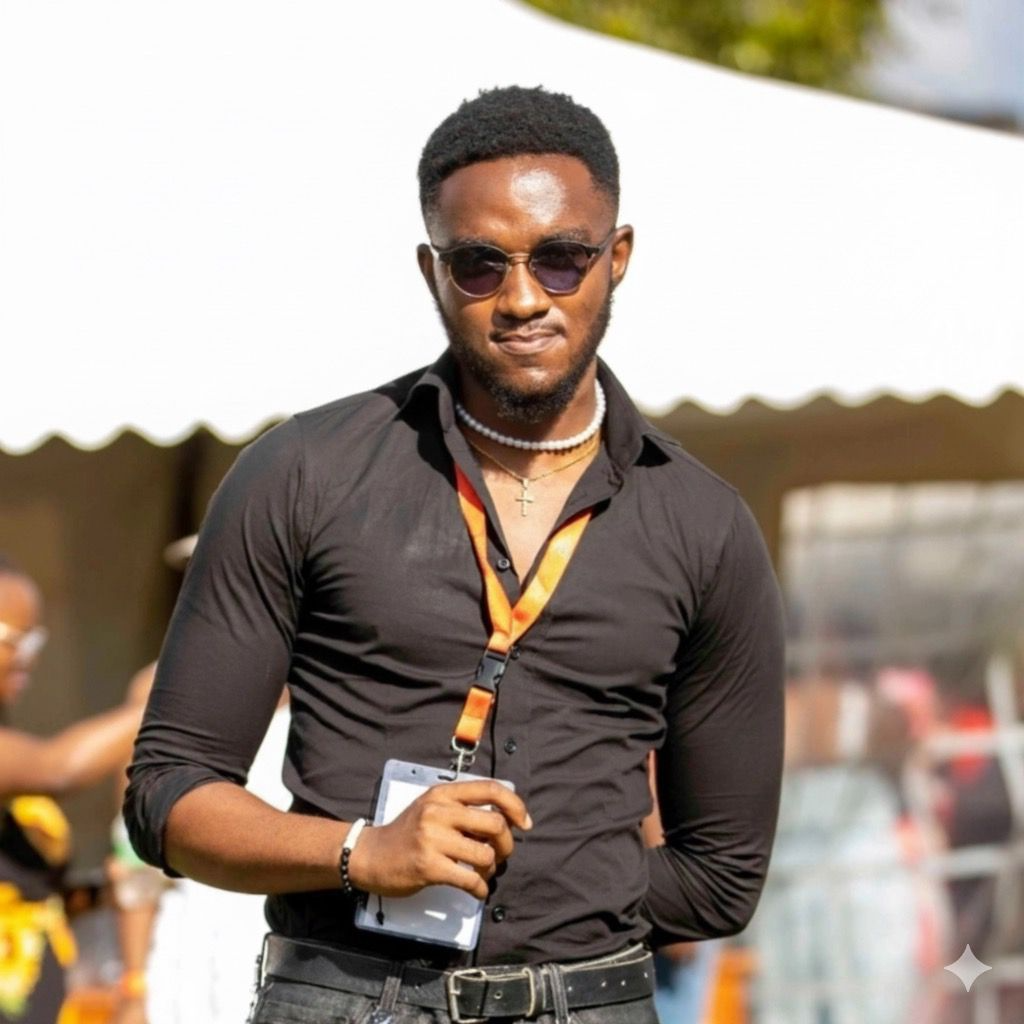
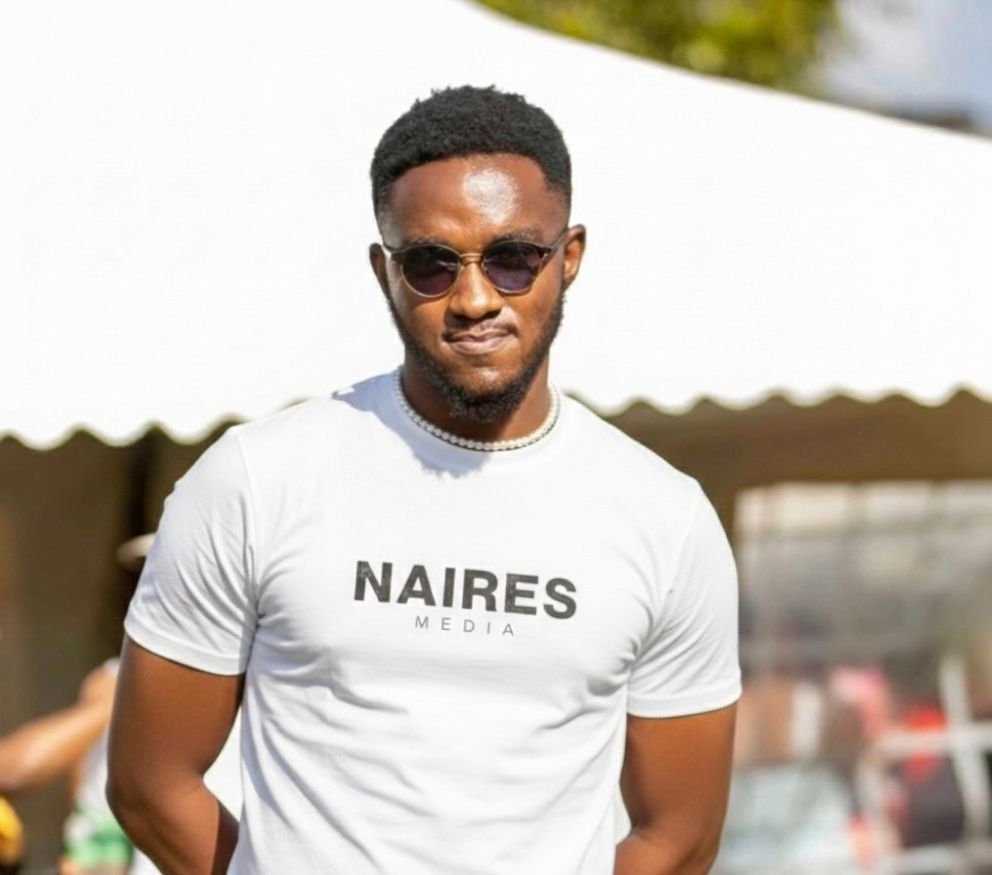
done

diff --git a/src/components/clients.tsx b/src/components/clients.tsx
@@ -4,9 +4,9 @@ import { useState } from 'react'
 import { useScrollAnimation } from '@/hooks/use-scroll-animation'
 
 const clientLogos = [
-  { initials: 'LH', name: 'Luxury Homes' },
+  { initials: 'MH', name: 'Minah Heights' },
   { initials: 'PP', name: 'Prime Properties' },
-  { initials: 'EG', name: 'Elite Group' },
+  { initials: 'RMS', name: 'Roots Motel Sagana' },
 ]
 
 export function Clients() {
@@ -27,7 +27,7 @@ export function Clients() {
               Trusted by Leading Real Estate Brands
             </h2>
 
-            <p className="font-playfair text-[#4A4A4A] text-lg max-w-2xl mx-auto font-light leading-relaxed">
+            <p className="text-[#4A4A4A] text-lg max-w-2xl mx-auto font-light leading-relaxed">
               Developers and agents trust us to present their properties with
               precision, elegance, and performance-driven visuals.
             </p>
@@ -80,11 +80,11 @@ export function Clients() {
                 </p>
                 <div className="pt-4 space-y-4">
                   <a
-                    href="https://instagram.com/four.horsemen.media"
+                    href="https://www.instagram.com/nairesmedia?igsh=MTRuOHZlMnY5ZWFvaA%3D%3D&utm_source=qr"
                     className="group flex items-center gap-3 text-primary font-medium hover:text-amber-600 transition-colors"
                   >
                     <span className="w-8 h-[1px] bg-primary group-hover:w-12 group-hover:bg-amber-600 transition-all" />
-                    Follow info@nairesmedia.com
+                    Follow nairesmedia
                   </a>
                   <a
                     href="mailto:contact@fourhorsemenmedia.com"
@@ -122,7 +122,7 @@ export function Clients() {
               {/* Floating Stat/Label Card */}
               <div className="absolute -bottom-6 -right-6 md:right-10 bg-white p-6 rounded-xl shadow-xl border border-neutral-100 hidden md:block animate-bounce-slow">
                 <p className="text-amber-600 text-xs tracking-widest uppercase font-bold mb-1">Live Preview</p>
-                <p className="font-playfair italic text-primary text-lg">Cinematic 4K Quality</p>
+                <p className="font-playfair italic text-primary text-lg">AI Virtual Staging</p>
               </div>
             </div>
 

diff --git a/src/app/services/page.tsx b/src/app/services/page.tsx
@@ -11,40 +11,31 @@ export default function ServicesPage() {
     {
       icon: Video,
       title: 'Cinematic Videography',
-      price: 'From $1,500',
+      price: 'From Ksh 50,000',
       description: 'Ultra-HD walkthroughs with rhythmic editing, professional color grading, and licensed sound design.',
-      features: ['4K/8K HDR Production', 'Drone Integration', 'Social Media Cuts', 'Sound Design'],
+      features: ['HDR Production', 'Drone Integration', 'Social Media Cuts', 'Sound Design'],
     },
     {
       icon: Camera,
       title: 'Premium Photography',
-      price: 'From $800',
+      price: 'From Ksh 10,000',
       description: 'Magazine-quality interior and exterior captures using advanced bracketed lighting techniques.',
-      features: ['100+ High-Res Images', 'Twilight Hour Shots', 'Virtual Staging', 'Advanced Retouching'],
+      features: ['20+ High-Res Images', 'Twilight Hour Shots', 'Virtual Staging', 'Advanced Retouching'],
     },
     {
       icon: Layout,
-      title: 'Digital Branding',
-      price: 'From $2,500',
+      title: 'Web design',
+      price: 'From Ksh 50,000',
       description: 'Bespoke, high-performance web experiences designed to showcase listings with immersive UI.',
-      features: ['Mobile-First UX', 'SEO Optimization', 'Custom CMS', 'Interactive Tours'],
-    },
-    {
-      icon: Sparkles,
-      title: 'Social Engine',
-      price: 'From $1,000',
-      description: 'Short-form content kits optimized for high engagement on Instagram Reels and TikTok.',
-      features: ['20-30 Short Clips', 'Trending Aesthetics', 'Captions & Graphics', 'Strategy Guide'],
+      features: ['Mobile-First UX', 'SEO Optimization', '360 View Intergration', 'Custom-designed 3+ Pages'],
     },
   ]
 
   const addOns = [
-    { name: 'Virtual Staging', price: '$300+' },
-    { name: 'Matterport 3D', price: '$400' },
-    { name: 'Twilight Session', price: '$200' },
-    { name: '48hr Rush', price: '$200' },
-    { name: 'Aerial Stills', price: '$300' },
-    { name: 'Extra Revisions', price: '$150' },
+    { name: 'AI Virtual Staging', price: 'Ksh 10,000' },
+    { name: '360 View', price: 'Ksh 10,000' },
+    { name: 'Aerial Shots', price: 'Ksh 15,000' },
+
   ]
 
   return (

diff --git a/src/components/hero.tsx b/src/components/hero.tsx
@@ -29,7 +29,7 @@ export function Hero() {
         }}
       >
         <img
-          src="https://i.pinimg.com/1200x/62/e8/06/62e806f8470cf0341f9360e6d2e67bfd.jpg"
+          src="https://www.tomferry.com/wp-content/uploads/2024/02/AdobeStock_220757323.jpg"
           alt="Luxury Real Estate Background"
           className="w-full h-full object-cover object-center scale-110"
           loading="eager"
@@ -43,18 +43,15 @@ export function Hero() {
       <div className="relative z-30 w-full px-6">
         <div className="max-w-4xl mx-auto text-center">
           
-          <span className="inline-block text-accent font-medium tracking-[0.3em] uppercase text-[10px] mb-4 animate-fadeIn">
-            Naires Media Group
-          </span>
 
           <h1 className="font-playfair text-4xl sm:text-6xl md:text-7xl lg:text-8xl text-white font-bold mb-6 leading-[1.1] drop-shadow-2xl">
             Visuals that <span className="italic text-accent">Attract.</span><br/>
             Websites that <span className="italic text-accent">Convert.</span>
           </h1>
 
-          <p className="font-playfair text-white/90 mb-10 leading-relaxed text-base md:text-xl max-w-2xl mx-auto font-light">
+          <p className="text-white/90 mb-10 leading-relaxed text-base md:text-xl max-w-2xl mx-auto font-light">
             The digital partner for Kenya&apos;s elite developers. We combine
-            cinematic media with high-performance tech to sell listings faster.
+            cinematic media with high-performance websites to sell listings faster.
           </p>
 
           {/* Buttons - Stacked on tiny mobile, side-by-side on sm+ */}

diff --git a/src/app/about/page.tsx b/src/app/about/page.tsx
@@ -24,7 +24,7 @@ export default function AboutPage() {
             Cinematic Excellence
           </span>
           <h1 className="font-playfair text-6xl md:text-7xl font-light text-primary mb-8 leading-tight">
-            About <span className="italic">Cinematic.</span>
+            About <span className="italic">Naires Media.</span>
           </h1>
           <p className="font-playfair text-xl text-primary/60 max-w-2xl mx-auto font-light leading-relaxed">
             Redefining luxury property presentation through technical precision and artistic storytelling.
@@ -40,7 +40,7 @@ export default function AboutPage() {
             <h2 className="font-playfair text-4xl font-bold text-primary mb-8">Our Story</h2>
             <div className="font-playfair grid md:grid-cols-2 gap-12 text-primary/70 text-lg leading-relaxed font-light">
               <p>
-                Founded with a vision to transform how luxury properties are presented, Cinematic Media
+                Founded with a vision to transform how luxury properties are presented, Naires Media
                 combines artistic excellence with technical precision. We believed that premium properties
                 deserved premium visual storytelling.
               </p>

diff --git a/src/components/services.tsx b/src/components/services.tsx
@@ -10,18 +10,18 @@ const services = [
   },
   {
     icon: Camera,
-    title: 'Architectural Stills',
-    description: 'Precision-captured interior and exterior photography focusing on symmetry, light, and high-end finishes.',
+    title: 'Website Design',
+    description: 'Strategically designed real estate websites built to showcase developments, capture qualified inquiries, and convert visitors into serious buyers',
   },
   {
     icon: Zap, // Swapped Drone for Zap for a cleaner "Aerial" look
-    title: 'Aerial Perspective',
+    title: 'Aerial Shots',
     description: 'Advanced 4K drone maneuvers that contextualize the property within its environment and landscape.',
   },
   {
     icon: Sparkles,
-    title: 'Digital Storytelling',
-    description: 'High-impact, short-form narratives engineered for maximum engagement across premium social platforms.',
+    title: 'Premium Photography',
+    description: 'Professional real estate photography designed to showcase properties with clarity, depth, and visual appeal',
   },
 ]
 

diff --git a/src/components/footer.tsx b/src/components/footer.tsx
@@ -51,7 +51,7 @@ export function Footer() {
                 info@nairesmedia.com
               </a>
               <a
-                href="tel:+254712345678"
+                href="tel:+254 112973302"
                 className="flex items-center gap-2 text-white hover:text-accent transition-colors text-sm"
               >
                 <Phone className="w-4 h-4" />
@@ -59,7 +59,7 @@ export function Footer() {
               </a>
               <div className="flex gap-4 pt-2">
                 <a
-                  href="#"
+                  href="https://www.instagram.com/nairesmedia?igsh=MTRuOHZlMnY5ZWFvaA%3D%3D&utm_source=qr"
                   className="text-white hover:text-accent transition-colors"
                   aria-label="Instagram"
                 >

diff --git a/src/components/testimonials.tsx b/src/components/testimonials.tsx
@@ -13,17 +13,17 @@ const testimonials = [
     rating: 5,
   },
   {
-    name: 'Michael Chen',
+    name: 'Qui Esther',
     title: 'Property Developer',
-    company: 'Prime Developments',
+    company: 'Roots Motel Sagana',
     content:
       'Professional, efficient, and incredibly creative. They understood our vision and delivered beyond expectations.',
     rating: 5,
   },
   {
-    name: 'Victoria Okonkwo',
+    name: 'Joel',
     title: 'Marketing Director',
-    company: 'Elite Estates Group',
+    company: 'Minah Heights',
     content:
       'Their drone footage and cinematic videos are game-changers. Buyers are more engaged and decisions happen faster.',
     rating: 5,

diff --git a/src/app/layout.tsx b/src/app/layout.tsx
@@ -51,7 +51,7 @@ const courier = Courier_Prime({
 })
 
 export const metadata: Metadata = {
-  title: "Cinematic Media | Luxury Real Estate Photography & Videography",
+  title: "Naires Media | Luxury Real Estate Photography & Videography",
   description:
     "Professional cinematic media services for luxury real estate. From Westlands to Kilimani — aerial drone footage, videography, photography, and social media content.",
 }

diff --git a/src/components/cta.tsx b/src/components/cta.tsx
@@ -9,7 +9,7 @@ export function CTA() {
           Ready to attract serious buyers for your property ?
         </h2>
 
-        <p className="font-playfair text-xl text-accent mb-12 max-w-2xl mx-auto">
+        <p className="text-xl text-accent mb-12 max-w-2xl mx-auto">
           We design high-end and digital experiences that elevate your listings, increase buyer interest, and help you sell faster.
         </p>
 

diff --git a/src/components/navbar.tsx b/src/components/navbar.tsx
@@ -97,4 +97,4 @@ export function Navbar() {
       </div>
     </nav>
   )
-}
+  }
